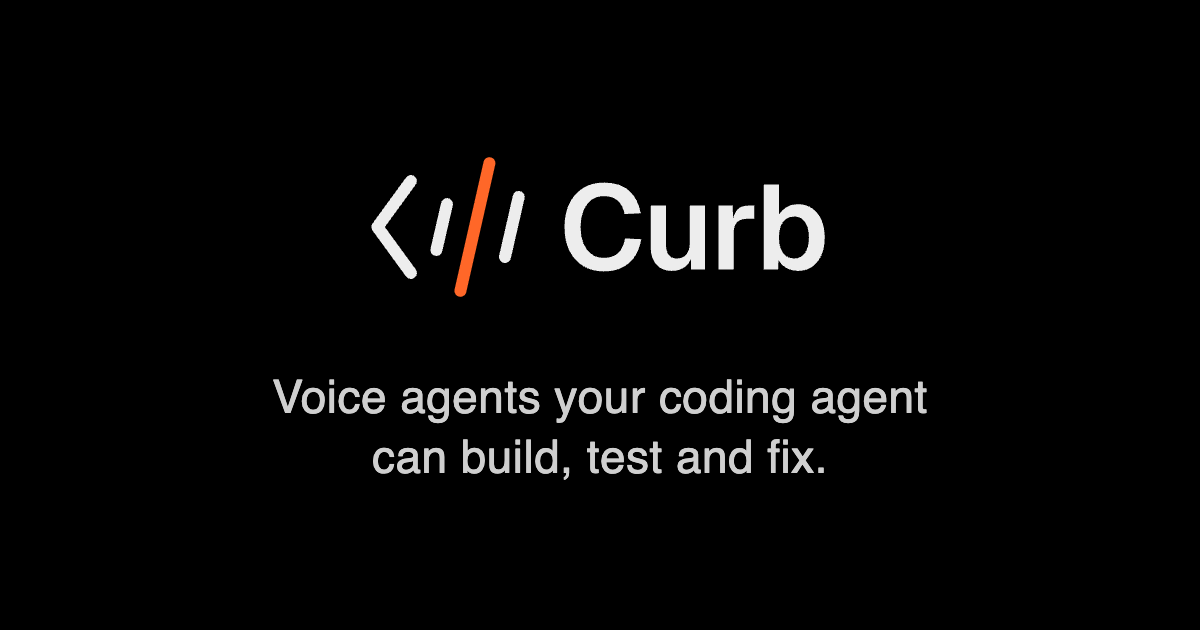
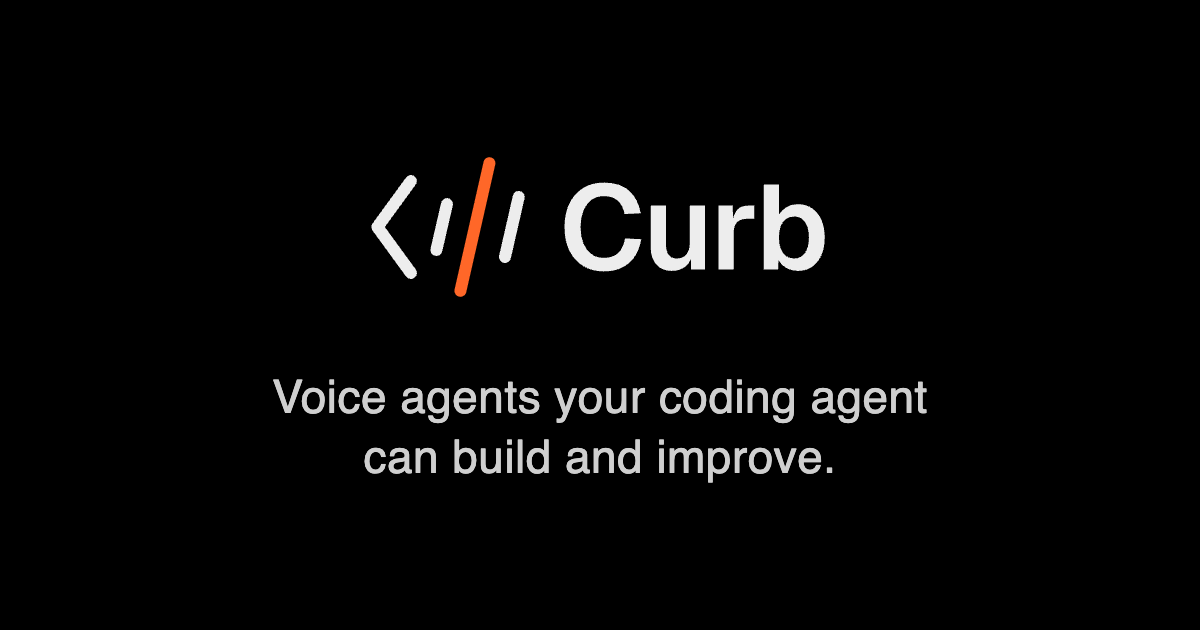
docs: the tagline says build and improve

Changed region(s): [[0.2775, 0.6937, 0.7092, 0.754]]

diff --git a/website/src/seo.ts b/website/src/seo.ts
@@ -3,7 +3,7 @@ import { GUIDE_PAGES, pageUrl, type GuidePageId } from './guide'
 export const SITE_NAME = 'Curb'
 
 // og.png shows SITE_HEADLINE as pixels: regenerate it and bump OG_IMAGE_PATH when the headline changes.
-export const SITE_HEADLINE = 'Voice agents your coding agent can build, test and fix.'
+export const SITE_HEADLINE = 'Voice agents your coding agent can build and improve.'
 
 export const SITE_DESCRIPTION =
   'Prompts and tools are plain code, and test conversations check the result. Run the agent on your own servers, or let KugelAudio host it.'

diff --git a/packages/create-curb.js/README.md b/packages/create-curb.js/README.md
@@ -1,7 +1,7 @@
 <div align="center">
   <a href="https://curbjs.com"><img alt="Curb" src="https://curbjs.com/og.png?v=3" width="360"></a>
   <h1>create-curb.js</h1>
-  <p><strong>Voice agents your coding agent can build, test and fix.</strong></p>
+  <p><strong>Voice agents your coding agent can build and improve.</strong></p>
   <p>Prompts and tools are plain code, and test conversations check the result. Run the agent on your own servers, or let KugelAudio host it.</p>
   <a href="https://www.npmjs.com/package/create-curb.js"><img alt="npm version" src="https://img.shields.io/npm/v/create-curb.js.svg?style=for-the-badge&labelColor=000000"></a>
   <a href="https://curbjs.com/docs/installation/"><img alt="Node.js version" src="https://img.shields.io/node/v/create-curb.js.svg?style=for-the-badge&labelColor=000000"></a>

diff --git a/packages/framework/README.md b/packages/framework/README.md
@@ -1,6 +1,6 @@
 <div align="center">
   <a href="https://curbjs.com"><img alt="Curb" src="https://curbjs.com/og.png?v=3" width="360"></a>
-  <p><strong>Voice agents your coding agent can build, test and fix.</strong></p>
+  <p><strong>Voice agents your coding agent can build and improve.</strong></p>
   <p>Prompts and tools are plain code, and test conversations check the result. Run the agent on your own servers, or let KugelAudio host it.</p>
   <a href="https://www.npmjs.com/package/curb.js"><img alt="npm version" src="https://img.shields.io/npm/v/curb.js.svg?style=for-the-badge&labelColor=000000"></a>
   <a href="https://curbjs.com/docs/installation/"><img alt="Node.js version" src="https://img.shields.io/node/v/curb.js.svg?style=for-the-badge&labelColor=000000"></a>

diff --git a/README.md b/README.md
@@ -5,7 +5,7 @@
       <img alt="Curb" src=".github/assets/logo-on-light.svg" width="220">
     </picture>
   </h1>
-  <p><strong>Voice agents your coding agent can build, test and fix.</strong></p>
+  <p><strong>Voice agents your coding agent can build and improve.</strong></p>
   <p>Prompts and tools are plain code, and test conversations check the result. Run the agent on your own servers, or let KugelAudio host it.</p>
   <p><sub>
     <a href="#quickstart">Quickstart</a> ·
